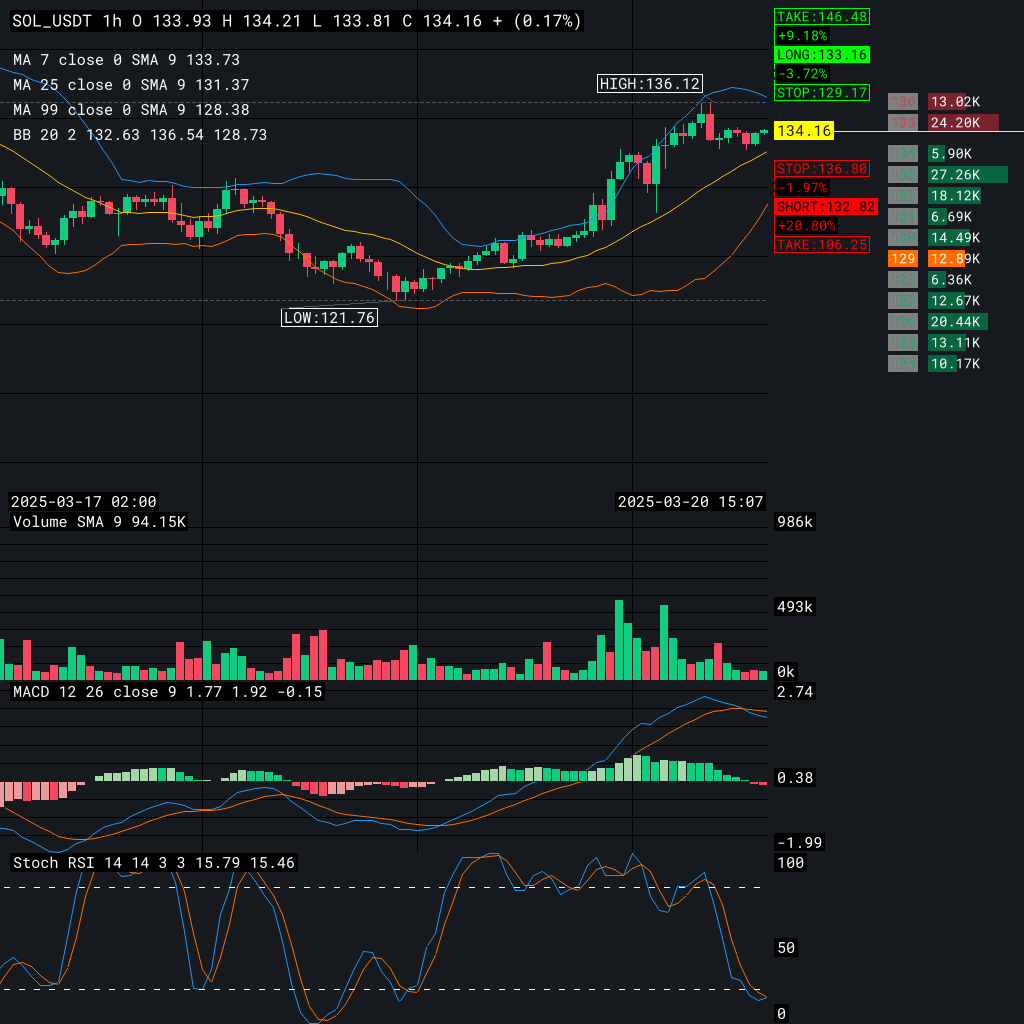
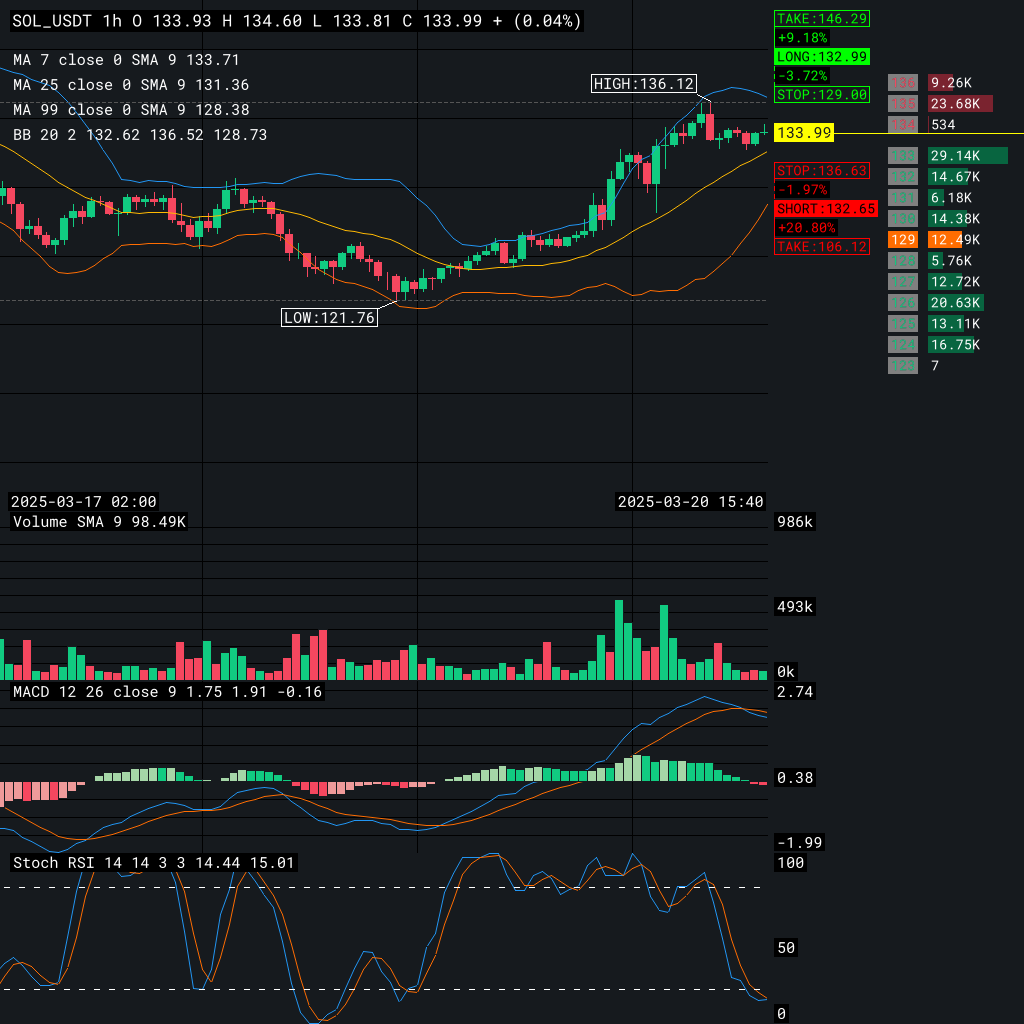
fix: wrong start x

diff --git a/feeder/src/charts/candle.rs b/feeder/src/charts/candle.rs
@@ -286,15 +286,11 @@ impl Chart {
         };
 
         // Calculate label top-left coordinates
-        let label_low_x = lowest_x + candle_w2;
+        let label_low_x = lowest_x;
         let label_low_y = lowest_y + 8.0; 
 
         let label_high_y = highest_y - 20.0 - 8.0;
         let label_high_x = highest_x;
-
-        // Adjust lowest_x for the center of the candlestick
-        let lowest_x_center = lowest_x + candle_w2;
-        let highest_x_center = highest_x;
 
         // Draw hallow labels
         let label_width = 112.0;
@@ -302,28 +298,28 @@ impl Chart {
         let font_color = Rgba([255, 255, 255, 255]);
         let border_color = Rgba([255, 255, 255, 255]);
 
-        let label_low_x = if label_low_x > chart_width2   { lowest_x - label_width - candle_w2 } else { lowest_x + 16.0 };
+        let new_label_low_x = if label_low_x > chart_width2 { lowest_x - label_width - candle_w2 } else { lowest_x + 16.0 };
         let low_bounding_rect = draw_hallow_label(
             img,
             font,
             &format!("LOW:{:.2}", lowest_price),
-            label_low_x,
+            new_label_low_x,
             label_low_y,
             label_scale,
             font_color,
             border_color,
         )?;
 
-        let label_high_x = if label_high_x > chart_width2   { highest_x - label_width - candle_w2 } else { highest_x  + 16.0 };
+        let new_label_high_x = if label_high_x > chart_width2 { highest_x - label_width - candle_w2 - 6.0 } else { highest_x + 16.0 };
 
         // Under other label?
-        let label_high_x = if label_high_x < 300.0 { 300.0 } else { label_high_x };
+        let new_label_high_x = if label_high_x < 300.0 { 300.0 } else { new_label_high_x };
 
         let high_bounding_rect = draw_hallow_label(
             img,
             font,
             &format!("HIGH:{:.2}", highest_price),
-            label_high_x,
+            new_label_high_x,
             label_high_y,
             label_scale,
             font_color,
@@ -331,12 +327,12 @@ impl Chart {
         )?;
 
         // Draw line from candlestick to the LOW label
-        let line_color = Rgba([255/3, 255/3, 255/3, 255/2u8]); // White line
+        let line_color = Rgba([255, 255, 255, 255]); // White line
         
         let line_x2 = if label_low_x > chart_width2 { low_bounding_rect.left() + low_bounding_rect.width() as i32} else {label_low_x as i32};
         draw_line_segment_mut(
             img,
-            (lowest_x_center, lowest_y),  
+            (lowest_x, lowest_y),  
             (line_x2 as f32, lowest_y + 8.0),  
             line_color,
         );
@@ -344,7 +340,7 @@ impl Chart {
         let line_x2 = if label_high_x > chart_width2 { high_bounding_rect.left() + high_bounding_rect.width() as i32} else {label_high_x as i32};
         draw_line_segment_mut(
             img,
-            (highest_x_center, highest_y),
+            (highest_x - 2.0, highest_y),
             (line_x2 as f32, highest_y - 8.0),  
             line_color,
         );
